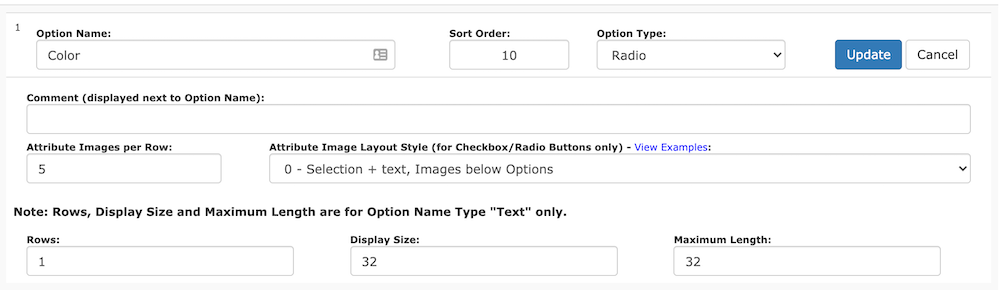
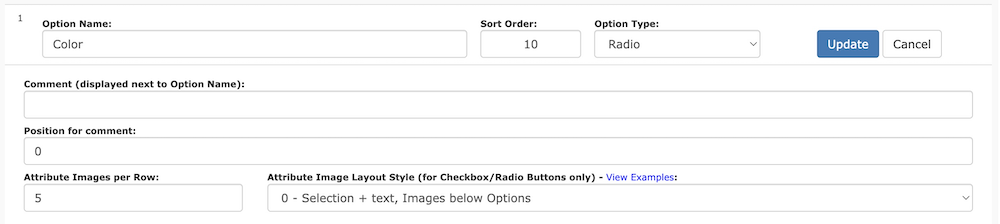
User doc updates for 1.5.8

diff --git a/content/user/email/emails_not_received.md b/content/user/email/emails_not_received.md
@@ -31,6 +31,7 @@ Go to [Admin > Configuration > Email Options](/user/admin_pages/configuration/co
 1. Try enabling the [Email Archiving](/user/admin_pages/configuration/configuration_emailoptions/#email_archiving_active) feature. Then use the [Email Archive Manager](/user/email/email_archive_manager/) plugin to check and see whether Zen Cart really processed the email for sending. If it did, then the problem is related to how PHP is processing your messages after they leave Zen Cart. 
 1. If the issue is arising from one particular customer, ask them to whitelist email from your domain.  For very strict filters, sometimes this is the only way to get through. 
 1. Check if the customer's [email address is mis-typed](/user/running/mistyped_email/). 
+1. Look for debug logs in the `/logs` folder.   Logs for email failures are named with the prefix `myDEBUG-bounced-email-adm-` for admin created emails, and `myDEBUG-bounced-email-` for storefront emails.
 
 ### Symptom: Email FROM-ADDRESS shows up funny
 If your "FROM" email addresses contain extra brackets ")", this is due to having an incorrectly-formed email address defined in your store `Email Address (sent FROM)` setting.

diff --git a/content/user/products/upcoming_products.md b/content/user/products/upcoming_products.md
@@ -19,10 +19,11 @@ You may also configure upcoming products to appear in the following places:
 
 Some stores will set the [products status](/user/products/products_status/) of an upcoming product to Disabled until the release date is reached.  In this case, a storeowner may wish to automate the transition to products status Enabled by using the [enable disabled product by available date](/user/admin_pages/configuration/configuration_stock/#enable_disabled_product_by_available_date) feature, which has been available since Zen Cart 1.5.7. 
 
+**Note:** Upcoming Products were called "Products Expected" in releases prior to v1.5.8.
 
 ## Related 
 
-- [Products Expected Admin Screen](/user/admin_pages/catalog/products_expected/)
+- [Upcoming Products Admin Screen](/user/admin_pages/catalog/products_expected/)
 - [how to enable/disable the Upcoming Products section](/user/admin/centerboxes/)
 - [Enable disabled product by available date](/user/admin_pages/configuration/configuration_stock/#enable_disabled_product_by_available_date)
 

diff --git a/content/user/admin_pages/menu_sections.md b/content/user/admin_pages/menu_sections.md
@@ -52,7 +52,7 @@ noindex: true
 *   [Specials](/user/admin_pages/catalog/specials/) — View, edit or delete special pricing.
 *   [Featured Products](/user/admin_pages/catalog/featured/) — View, add, edit or delete featured products.
 *   [SaleMaker](/user/admin_pages/catalog/salemaker/) — View, add, edit or delete sales.
-*   [Products Expected](/user/admin_pages/catalog/products_expected/) — View or edit expected products.
+*   [Upcoming Products](/user/admin_pages/catalog/products_expected/) — View or edit upcoming products.
 *   [Products to Categories](/user/admin_pages/catalog/products_to_categories/) — Manage product-category mappings.
 
 ### [Modules](/user/admin_pages/modules/)

diff --git a/content/user/troubleshooting/debug_logs.md b/content/user/troubleshooting/debug_logs.md
@@ -73,6 +73,12 @@ Let's examine the back-trace provided by the first log-entry in the example give
 ### How to Fix Common Debug Logs
 Many examples of debug logs and how to fix them are shown in [PHP Warnings and Deprecated messages after upgrading](/user/upgrading/php_warnings/). 
 
+### Special Logs 
+Some logs will follow special file naming conventions to make them more easily identifiable.   The following prefixes are used: 
+
+- `myDEBUG-bounced-email-adm-` failure to send email from admin
+- `myDEBUG-bounced-email-` failure to send email from storefront
+
 ### Utilities
 The following tools are available for working with debug log files:
 

diff --git a/content/user/admin_pages/catalog/option_name_manager.md b/content/user/admin_pages/catalog/option_name_manager.md
@@ -55,6 +55,8 @@ If you click edit next to the option name then you can add some settings.
 
 e.g. If the option name is to upload a file, tell your customer what file extensions are allowed.
 
+*   Position for Comment - use 0 to display the comment above the field; use 1 to display the comment below the field.  Note that this setting was introduced in version 1.5.8. 
+
 *   Rows - the number of rows you want your input/text area box to be.
 
 *   Display Size - the size of the input/text area box on the screen your customers see.

diff --git a/content/user/admin_pages/catalog/products_expected.md b/content/user/admin_pages/catalog/products_expected.md
@@ -1,5 +1,5 @@
 ---
-title: Products Expected 
+title: Upcoming Products 
 category: admin_pages
 weight: 140
 ---
@@ -11,6 +11,8 @@ These are called the Expected Products (or "Upcoming Products).
 From this page, you may edit any product in the list of expected products. 
 
 The Date Available field is set on the [Product Editing screen](/user/products/product_edit/). 
+
+**Note:** Upcoming Products were called "Products Expected" in releases prior to v1.5.8.
 
 ## Related 
 
